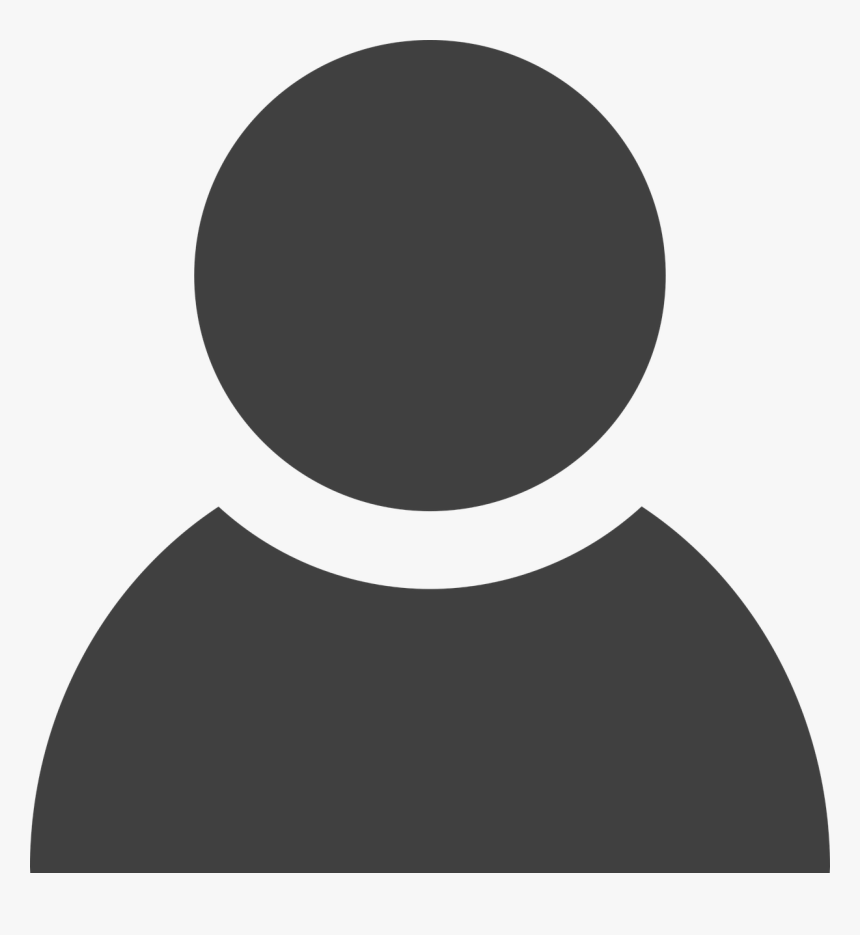
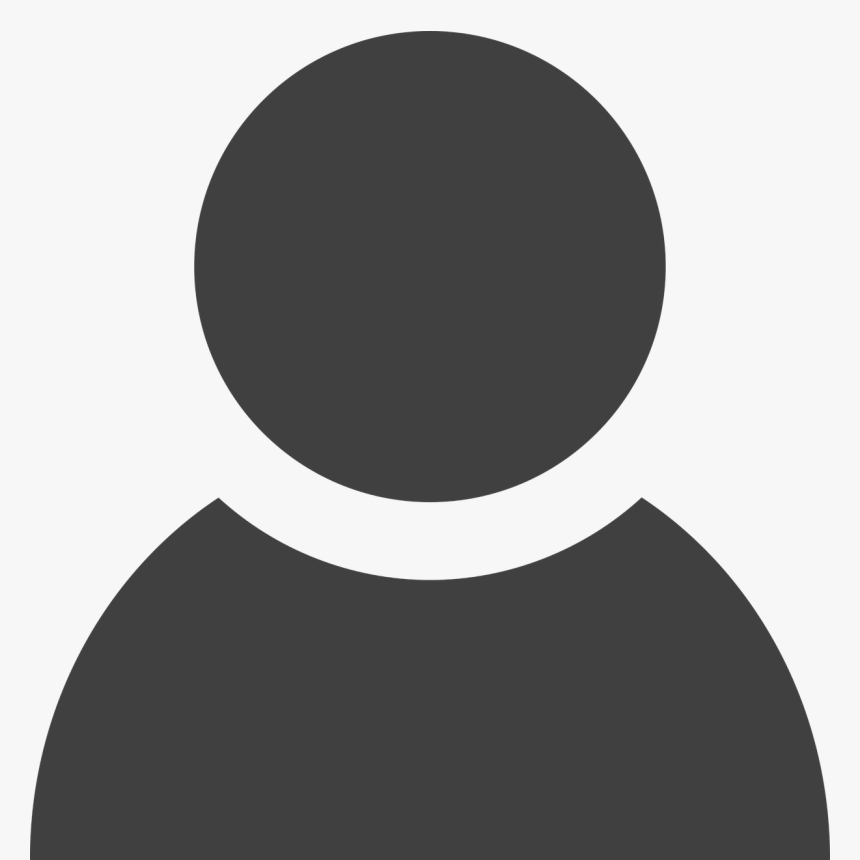
a

diff --git a/badge.html b/badge.html
@@ -64,42 +64,42 @@
     <div class="box-container">
 
         <div class="box">
-            <img src="images/menu-1.jpg" alt="">
+            <img src="badge/1.png" alt="">
             <h3>MD. Alif Rashid Shinha</h3>
             <div class="price">General Secretary</div>
             <a href="#" class="btn">contact</a>
         </div>
 
         <div class="box">
-            <img src="images/menu-2.jpg" alt="">
+            <img src="badge/1.png" alt="">
             <h3>Sarker Mehjabin Anusha</h3>
             <div class="price">ASST. General Secretary</div>
             <a href="#" class="btn">contact</a>
         </div>
 
         <div class="box">
-            <img src="images/menu-3.jpeg" alt="">
+            <img src="badge/1.png" alt="">
             <h3>Tabassum Hridi</h3>
             <div class="price">Organizing Secretary</div>
             <a href="#" class="btn">Contact</a>
         </div>
 
         <div class="box">
-            <img src="images/menu-4.jpeg" alt="">
+            <img src="badge/1.png" alt="">
             <h3>Irfan Ridoy</h3>
             <div class="price">ASST. Organizing Secretary </div>
-            <a href="https://nasxion.github.io/nahidahmed/" class="btn">Contact</a>
+            <a href="#" class="btn">Contact</a>
         </div>
 
   <div class="box">
-            <img src="images/menu-5.jpg" alt="">
+            <img src="badge/1.png" alt="">
             <h3>Hossain Azhar Fouad</h3>
             <div class="price">Administrative Secretary</div>
             <a href="#" class="btn">Contact</a>
         </div>
 
   <div class="box">
-            <img src="images/menu-6.jpg" alt="">
+            <img src="badge/1.png" alt="">
             <h3>Shah Ikram Ahmed</h3>
             <div class="price">ASST. Administrative Secretary</div>
             <a href="#" class="btn">Contact</a>
@@ -107,28 +107,28 @@
 
 
         <div class="box">
-            <img src="images/menu-7.jpg" alt="">
+            <img src="badge/1.png" alt="">
             <h3>Shakil Ahmed Roni</h3>
             <div class="price">Law and Discipline Secretary</div>
             <a href="#" class="btn">Contact</a>
         </div>
 
         <div class="box">
-            <img src="images/menu-8.jpg" alt="">
+            <img src="badge/1.png" alt="">
             <h3>Tanvir Nawous Tirtho</h3>
             <div class="price">ASST. Law and Discipline Secretary</div>
             <a href="#" class="btn">Contact</a>
         </div>
 
         <div class="box">
-            <img src="images/menu-8.jpg" alt="">
+            <img src="badge/1.png" alt="">
             <h3>Arnika Rahman Ema</h3>
             <div class="price">Public Relationship Secretary</div>
             <a href="#" class="btn">Contact</a>
         </div>
 
         <div class="box">
-            <img src="images/menu-8.jpg" alt="">
+           <img src="badge/1.png" alt="">
             <h3>Tanvir Alam Tamim</h3>
             <div class="price">ASST. Public Relationship Secretary</div>
             <a href="#" class="btn">Contact</a>
